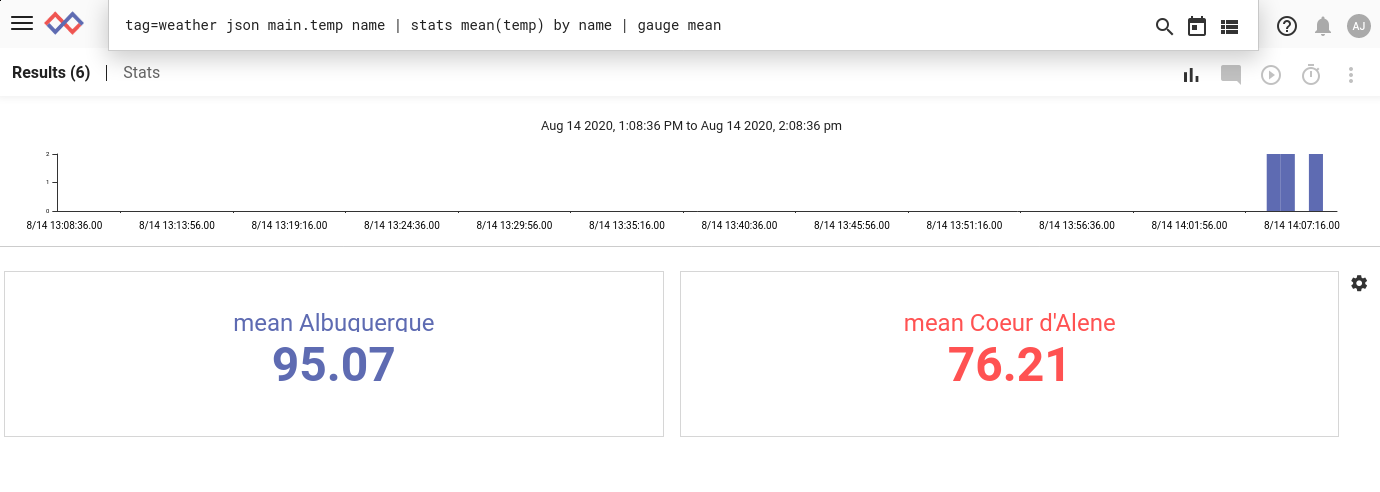
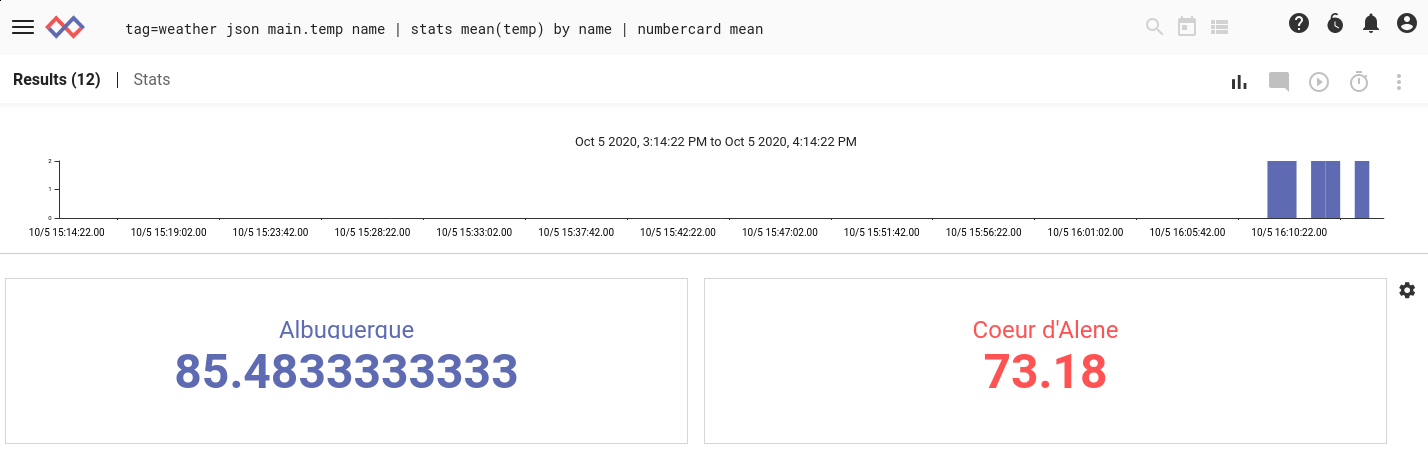
document numbercard renderer

diff --git a/search/gauge/gauge.md b/search/gauge/gauge.md
@@ -1,6 +1,12 @@
-# Gauge
+# Gauge & Numbercard
 
 The gauge renderer is a condensing renderer used to turn entries into one or more final values suitable for display as "gauges". For instance, you might wish to find the total number of brute-force attempts over the last hour and display it in a dashboard. While this could be accomplished with the table renderer, the gauge renderer makes for a more attractive result with at-a-glance readability.
+
+![](gauge-example.png)
+
+The numbercard renderer is an "alias" of gauge: it has the exact same syntax as gauge, but will default to displaying simple numeric tiles instead of gauges:
+
+![](numbercard-example.png)
 
 ## Basic Usage
 
@@ -19,6 +25,15 @@ Selecting the gear icon allows you to change some options on the gauge. Clicking
 Selecting 'Number card' in the chart type dropdown will change the display to the other kind of gauge:
 
 ![](gauge3.png)
+
+If we specify `numbercard` instead of `gauge`, we will default to the 'Number card' view:
+
+
+```
+tag=json json class | stats mean(class) | numbercard mean
+```
+
+![](numbercard-basic.png)
 
 ## Specifying a Label
 
@@ -88,10 +103,10 @@ The renderer also behaves appropriately in "number card" mode with multiple item
 
 ## Keyed Multi-Gauge
 
-If you specify a magnitude which is *keyed*, gauge will output values for each combination of keys. So for instance, one might take weather data from multiple cities and find the average *per city*, then pass the resulting average to gauge:
+If you specify a magnitude which is *keyed*, gauge will output values for each combination of keys. So for instance, one might take weather data from multiple cities and find the average *per city*, then pass the resulting average to `gauge` or `numbercard`:
 
 ```
-tag=weather json main.temp name | stats mean(temp) by name | gauge mean
+tag=weather json main.temp name | stats mean(temp) by name | numbercard mean
 ```
 
 ![](keyed1.png)

diff --git a/search/rendermodules.md b/search/rendermodules.md
@@ -14,7 +14,7 @@ Every search module has universal enumerated values for records.
 * [chart](chart/chart.md) - Render data as line graphs, bar graphs, etc.
 * [fdg](fdg/fdg.md) - Force-directed graphs.
 * [stackgraph](stackgraph/stackgraph.md) - Stack graphs.
-* [gauge](gauge/gauge.md) - Gauges and numeric cards.
+* [gauge/numbercard](gauge/gauge.md) - Gauges and numeric cards.
 
 ### Tables and Text
 * [table](table/table.md) - Display tables of enumerated values.

diff --git a/search/complete-module-list.md b/search/complete-module-list.md
@@ -40,6 +40,7 @@
 * [min](math/math.md#Min)
 * [namedfields](namedfields/namedfields.md)
 * [netflow](netflow/netflow.md)
+* [numbercard](gauge/gauge.md)
 * [packet](packet/packet.md)
 * [packetlayer](packetlayer/packetlayer.md)
 * [pcap](pcap/pcap.md)
